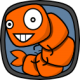
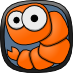
Updated to use new shrimp

diff --git a/sass/parts/_header.scss b/sass/parts/_header.scss
@@ -1,4 +1,4 @@
-$header-height: 80px;
+$header-height: 72px;
 
 #header{
 	height: $header-height;
@@ -20,7 +20,7 @@ $header-height: 80px;
 	h1{
 		float: left;
 		padding-left: 100px;
-        height: 100px;
+		height: 74px;
 		background-image: url('../images/shrimp.png');
 		background-repeat: no-repeat;
 		font-weight: 300;
